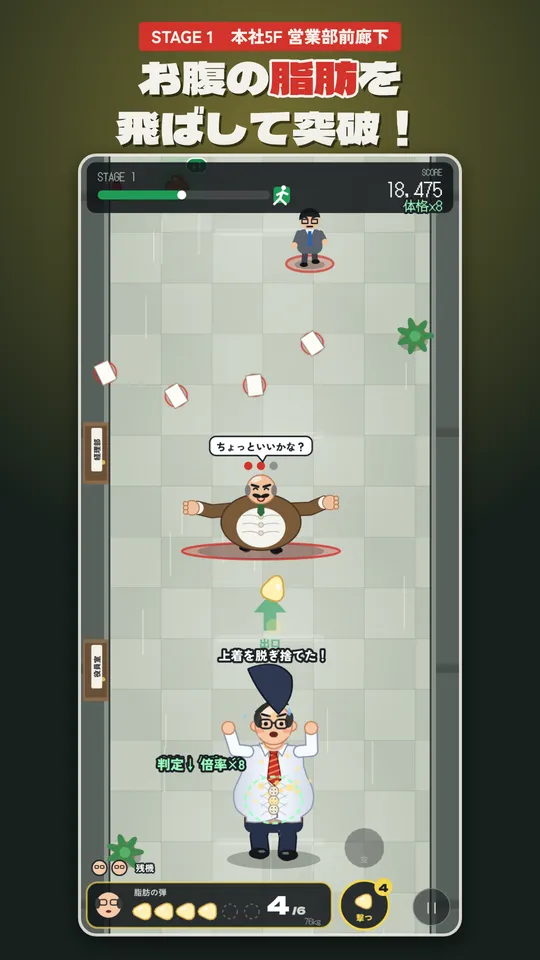
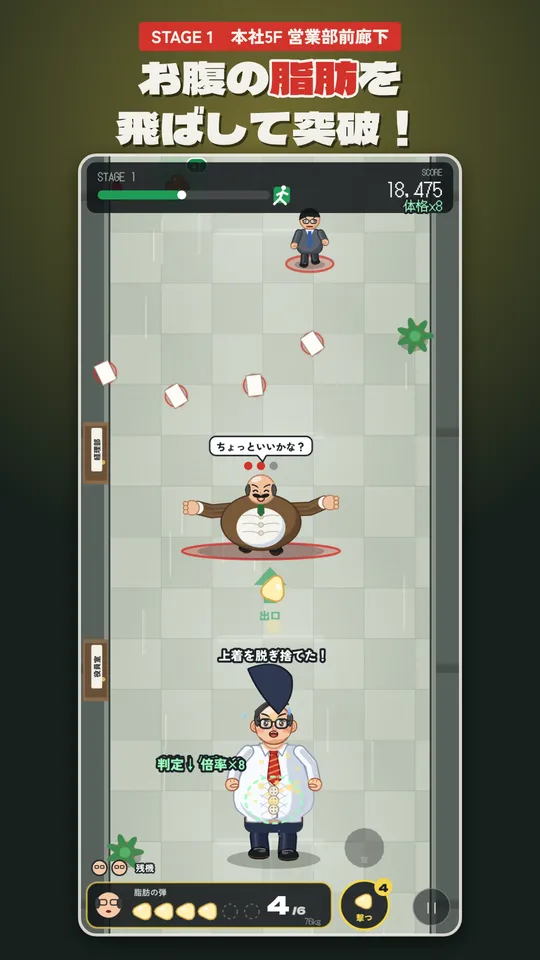
メタボリック・バースト：新しいキャラ絵（パーツ・骨格・影・撃つポーズ）を反映、スクショ・アイコン更新
Claude-Session: https://claude.ai/code/session_01QeTKPnQbY6c98XRXLugAWU

diff --git a/metabo-burst/index.html b/metabo-burst/index.html
@@ -1369,18 +1369,22 @@ function heroPose(B, opt) {
     const lift = charging ? (s < 0 ? 2 : 0) : Math.max(0, Math.sin(ph + (s > 0 ? Math.PI : 0))) * 9;
     return { s, lift, hip: [s * lerp(7, 12, P.fat), 24], knee: [s * (12 + lift * 0.3), 37 - lift * 0.95], foot: [s * 11, 49 - lift * 1.15] };
   }).sort((p, q) => p.lift - q.lift);
+  // 撃った直後の0.18秒は「ブルン！」の反動ポーズ：胸を張って腕を後ろへ振り、撃った向きと逆へのけぞる
+  const kick = shotKick(), dx = P.shotX || 0;
   return {
-    bob: -Math.abs(Math.cos(ph)) * 3.2 * (charging ? 0.25 : 1),
-    lean: opt.lean || clamp(P.vx / 640, -1, 1) * 0.08,
-    legs, arms: armPose(B, ph, opt),
-    head: { x: P.b.ox * 0.15, y: -57 + Math.sin(ph * 2) * 0.8 + P.pullAmt * 3, a: charging ? Math.sin(G.t * 50) * 0.02 * P.pullAmt : 0 },
+    bob: -Math.abs(Math.cos(ph)) * 3.2 * (charging ? 0.25 : 1) - kick * 2,
+    lean: opt.lean || clamp(P.vx / 640, -1, 1) * 0.08 - dx * 0.14 * kick,
+    legs, arms: armPose(B, ph, opt, kick),
+    head: { x: P.b.ox * 0.15 - dx * 2 * kick, y: -57 + Math.sin(ph * 2) * 0.8 + P.pullAmt * 3 - 2.5 * kick, a: (charging ? Math.sin(G.t * 50) * 0.02 * P.pullAmt : 0) - dx * 0.12 * kick },
   };
 }
-function armPose(B, ph, opt) {
+const shotKick = () => clamp((P.flail - 0.32) / 0.18, 0, 1);
+function armPose(B, ph, opt, kick) {
   const out = [];
   for (const s of [-1, 1]) {
     let hand, elbow, back = false;
     if (opt.surrender) { hand = [s * 30, -66]; elbow = [s * 31, -46]; }
+    else if (kick > 0) { hand = [s * lerp(lerp(24, 42, P.fat), 46, kick), lerp(-8, 2, kick)]; elbow = [s * lerp(lerp(22, 38, P.fat), 40, kick), -24]; back = kick > 0.5; }
     else if (P.charging) {
       hand = [B.cx + s * 15 + P.pullDX * 3, B.cy + B.ry - 3]; elbow = [s * lerp(28, 40, P.fat), B.cy - 6];
     } else if (P.flail > 0) {
@@ -1685,8 +1689,8 @@ function drawFaceParts(c, mood, head, opt) {
 }
 function drawMouth(c, mood, ph, opt) {
   if (P.charging) return part(c, 'mouthGrit', 0, 8.5);
-  if (mood === 0 && !opt.dead) return part(c, 'mouthSmile', 0, 6.3);
-  const open = 1.8 + Math.abs(Math.sin(ph * 2)) * 2.2 + (mood >= 3 ? 1.5 : 0) + (opt.dead ? 3 : 0);
+  if (mood === 0 && !opt.dead && !shotKick()) return part(c, 'mouthSmile', 0, 6.3);
+  const open = 1.8 + Math.abs(Math.sin(ph * 2)) * 2.2 + (mood >= 3 ? 1.5 : 0) + (opt.dead ? 3 : 0) + shotKick() * 3;
   part(c, 'mouthOpen', 0, 8, 0, (3.6 + (opt.dead ? 2 : 0)) / 3.6, open / 3);
 }
 // ふさふさカツラ：七三分け。走ると風で浮く
@@ -2156,12 +2160,15 @@ function drawBucho(c, e) {
 function drawCoworker(c, e) {
   c.save(); c.translate(e.x, e.y); c.globalAlpha = 0.75;
   c.fillStyle = 'rgba(25,35,28,.22)'; ell(c, 2, 6, 32, 8); c.fill();
-  limb(c, [[8, 0], [30, 3]], 8, COL.navy); limb(c, [[8, 4], [29, 9]], 8, COL.navy);
-  c.fillStyle = '#16171a'; ell(c, 33, 3, 3.5, 4.5); c.fill(); ell(c, 32, 10, 3.5, 4.5); c.fill();
+  const R = hasParts(), L = R ? limbCel : limb, NE = darker(COL.navy, 0.4);
+  L(c, [[8, 0], [30, 3]], 8, COL.navy, NE); L(c, [[8, 4], [29, 9]], 8, COL.navy, NE);
+  // 倒れているので靴は横向き（つま先が上）
+  if (R) { part(c, 'shoe', 33, 3, -Math.PI / 2, 0.5); part(c, 'shoe', 32, 10, -Math.PI / 2, 0.5); }
+  else { c.fillStyle = '#16171a'; ell(c, 33, 3, 3.5, 4.5); c.fill(); ell(c, 32, 10, 3.5, 4.5); c.fill(); }
   c.fillStyle = '#eef2f7'; rr(c, -14, -7, 24, 15, 5); c.fill(); c.strokeStyle = '#8f9bb0'; c.lineWidth = 1; c.stroke();
-  limb(c, [[-6, -6], [-14, -20]], 5.5, '#eef2f7', '#8f9bb0');
-  c.fillStyle = '#f2c7a6'; circ(c, -14, -21, 3.2); c.fill();
-  c.fillStyle = '#f2c7a6'; circ(c, -21, 1, 8.5); c.fill(); c.strokeStyle = '#c98b67'; c.stroke();
+  L(c, [[-6, -6], [-14, -20]], 5.5, '#eef2f7', '#8f9bb0');
+  if (R) part(c, 'hand', -14, -21, 0, 0.55); else { c.fillStyle = '#f2c7a6'; circ(c, -14, -21, 3.2); c.fill(); }
+  c.fillStyle = '#f2c7a6'; circ(c, -21, 1, 8.5); c.fill(); c.strokeStyle = R ? '#9a5a3d' : '#c98b67'; c.stroke();
   c.fillStyle = '#2d2c2b'; c.beginPath(); c.arc(-23, 1, 8.8, Math.PI * 0.6, Math.PI * 1.4); c.fill();
   c.strokeStyle = '#1b1c1e'; c.lineWidth = 1.2;
   for (const yy of [-2.5, 3]) { line(c, -19, yy - 1.5, -16, yy + 1.5); line(c, -19, yy + 1.5, -16, yy - 1.5); }
@@ -3035,7 +3042,7 @@ function fire(dir, power) {
   P.slot[i] = null;
   const spd = 560 + 520 * power;
   G.bullets.push({ kind, x: sx, y: sy, vx: dir.x * spd, vy: dir.y * spd, r: kind === 'karaage' ? 15 : 14, pierce: kind === 'karaage' ? 8 : 2, dmg: kind === 'karaage' ? 2 : 1, bounces: 0, life: 0, rot: 0, spin: rnd(18, 30) * (Math.random() < 0.5 ? -1 : 1), hit: new Set(), trail: [] });
-  P.b.vsy -= 9; P.b.voy -= 260; P.b.vsx += 4; P.flail = 0.5;
+  P.b.vsy -= 9; P.b.voy -= 260; P.b.vsx += 4; P.flail = 0.5; P.shotX = dir.x;
   for (let k = 0; k < 8; k++) G.parts.push({ type: 'sweat', col: 'rgba(255,226,140,.95)', size: rnd(2, 4), x: sx, y: sy, vx: rnd(-160, 160), vy: rnd(-260, -40), life: 0.7, max: 0.7 });
   sparks(sx, sy, 10); ring(sx, sy, 110, 'rgba(255,255,255,.9)', 6);
   for (const e of G.ents) if (e.shot && !e.hard && Math.hypot(e.x - sx, e.y - sy) < 105) { e.dead = true; burst(e.x, e.y, 5, e.type === 'stamp' ? '#f4c3bd' : null); }
